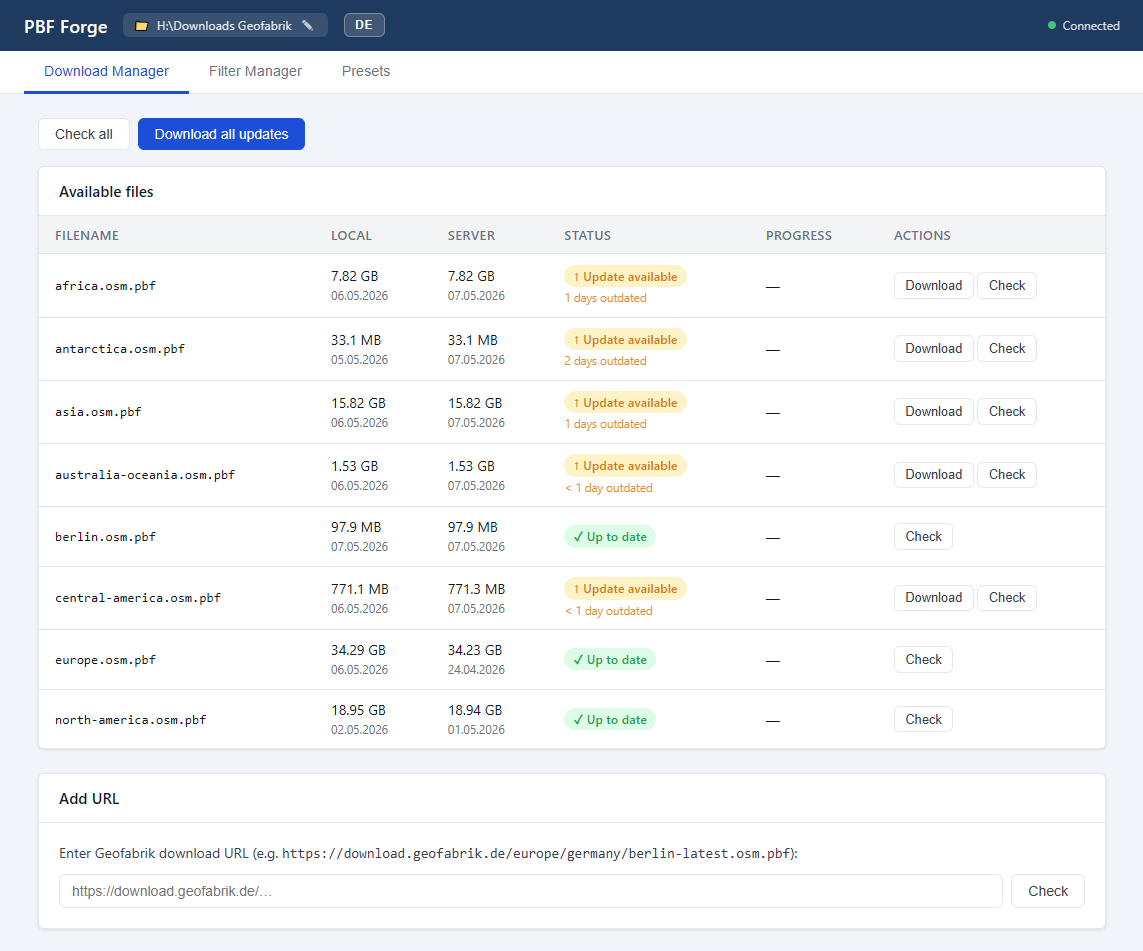
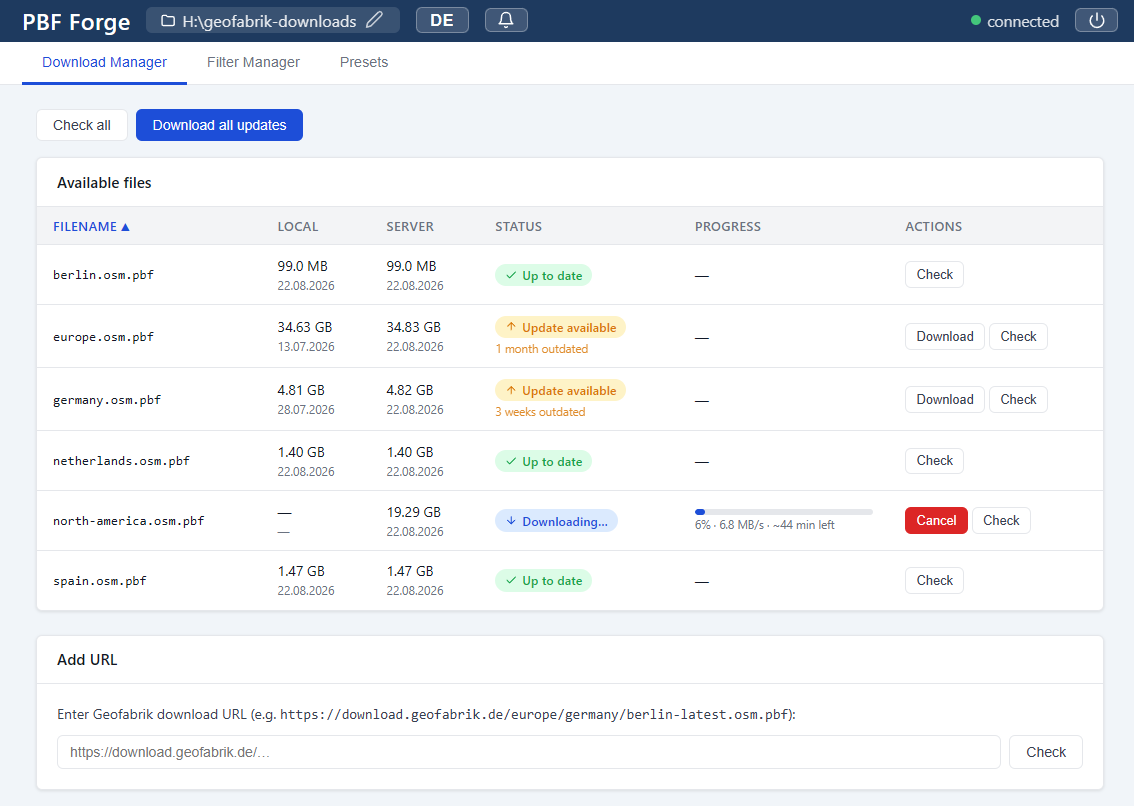
docs: stop presenting one download host as a requirement
Nothing in the tool is tied to a particular host. _validate_url rejects only
loopback and private addresses, the filename handling is string work, and the
single real constraint is a .md5 sidecar beside the file. The documentation and
the interface said otherwise in several places.

The URL field read "Enter Geofabrik download URL" above an input that accepts
any address, which tells the reader the others are not allowed. It now names
the format and keeps the host in the example, where it belongs. Both languages.

The README described eight built-in continental extracts as entries waiting in
the Downloads tab. There are none: the list is built from the data directory,
so on a fresh install it is empty, and the quickstart sent a new reader looking
for something that was never there. CONTINENTAL_URLS is a fallback that lets a
file copied in by hand still be checked, and config.py now says that.

limits.md gains the constraint that actually decides which hosts work, with the
sidecar requested from four of them rather than assumed: geofabrik.de,
planet.openstreetmap.org and bbbike.org publish one, openstreetmap.fr does not.

Geofabrik stays where it is a fact: as the example in the recipes, as the paid
custom-extract service among the alternatives, and as the region tree the
roadmap plans to browse.

The screenshots are replaced with current ones, so the note admitting they were
outdated is gone. Two guards replace the one that checked the count of a claim
[…]

diff --git a/frontend/index.html b/frontend/index.html
@@ -635,7 +635,7 @@ footer .credits-sep { color: var(--border); }
     <div class="card-header" data-i18n="card_add_url">Add URL</div>
     <div class="card-body">
       <p id="url-hint-p" style="font-size:.875rem;color:#374151;margin-bottom:.75rem">
-        Enter Geofabrik download URL (e.g. <code>https://download.geofabrik.de/europe/germany/berlin-latest.osm.pbf</code>):
+        Enter a PBF download URL (e.g. <code>https://download.geofabrik.de/europe/germany/berlin-latest.osm.pbf</code>):
       </p>
       <div style="display:flex;gap:.5rem">
         <input type="url" id="url-input" placeholder="https://download.geofabrik.de/…" style="flex:1">
@@ -1006,7 +1006,7 @@ const TRANSLATIONS = {
     th_actions: 'Aktionen',
     card_files: 'Vorhandene Dateien',
     card_add_url: 'URL hinzufügen',
-    url_hint: 'Geofabrik-Download-URL eingeben (z.&nbsp;B. <code>https://download.geofabrik.de/europe/germany/berlin-latest.osm.pbf</code>):',
+    url_hint: 'PBF-Download-URL eingeben (z.&nbsp;B. <code>https://download.geofabrik.de/europe/germany/berlin-latest.osm.pbf</code>):',
     url_check: 'Prüfen',
     url_filename: 'Dateiname',
     url_size: 'Größe (Server)',
@@ -1191,7 +1191,7 @@ const TRANSLATIONS = {
     th_actions: 'Actions',
     card_files: 'Available files',
     card_add_url: 'Add URL',
-    url_hint: 'Enter Geofabrik download URL (e.g. <code>https://download.geofabrik.de/europe/germany/berlin-latest.osm.pbf</code>):',
+    url_hint: 'Enter a PBF download URL (e.g. <code>https://download.geofabrik.de/europe/germany/berlin-latest.osm.pbf</code>):',
     url_check: 'Check',
     url_filename: 'Filename',
     url_size: 'Size (server)',

diff --git a/backend/tests/test_docs_claims.py b/backend/tests/test_docs_claims.py
@@ -305,13 +305,36 @@ def test_no_region_browser_claim():
     )
 
 
-def test_built_in_extract_count_matches_config():
-    config = _read(REPO / "backend" / "config.py")
-    urls = set(re.findall(r'"(https://[^"]+-latest\.osm\.pbf)"', config))
-    readme = _read(REPO / "README.md")
-    if "continental extracts" in readme:
-        assert "eight" in readme, "README states a count of built-in extracts"
-        assert len(urls) == 8, f"config.py now holds {len(urls)} built-in extracts, not 8"
+def test_no_claim_that_extracts_are_offered_out_of_the_box():
+    """CONTINENTAL_URLS is a fallback for filenames, not a catalogue.
+
+    It has no endpoint and no control. The download list is built from the data
+    directory, so on a fresh install it is empty. Documentation that promises
+    ready-made entries sends a new reader looking for something that is not
+    there.
+    """
+    banned = ("continental extract", "built-in extract")
+    offenders = [
+        f"{p.name}: {phrase}"
+        for p in _existing(CLAIM_DOCS)
+        for phrase in banned
+        if phrase in _read(p).lower()
+    ]
+    assert not offenders, "the built-in URLs never reach the interface: " + ", ".join(offenders)
+
+
+def test_the_download_url_field_names_no_host():
+    """Any host works, so the label must not read as a restriction.
+
+    _validate_url rejects only loopback and private addresses. Naming one host
+    in the field label tells the reader the others are not allowed.
+    """
+    frontend = _read(FRONTEND)
+    hints = re.findall(r"url_hint: '([^']*)'", frontend)
+    assert hints, "url_hint is no longer a plain string in the translation tables"
+    for hint in hints:
+        label = hint.split("(")[0]  # the example after "(e.g. ...)" may name one
+        assert "geofabrik" not in label.lower(), f"the URL field label names a host: {label!r}"
 
 
 # --------------------------------------------------------------------------

diff --git a/backend/download_manager.py b/backend/download_manager.py
@@ -1,8 +1,9 @@
-"""Downloading and freshness tracking for Geofabrik PBF extracts.
+"""Downloading and freshness tracking for PBF extracts.
 
-Transfers run in worker threads, resume from a .part file, and are checksummed
-against Geofabrik's .md5 before they count as complete. Per-file state is pushed
-to connected clients as it changes.
+The host is whichever one the URL names; nothing here is tied to a particular
+one. Transfers run in worker threads, resume from a .part file, and are
+checksummed against the .md5 the host publishes beside the file before they
+count as complete. Per-file state is pushed to connected clients as it changes.
 """
 
 from __future__ import annotations
@@ -181,7 +182,7 @@ def source_url(filename: str) -> Optional[str]:
 
 
 def url_to_filename(url: str) -> str:
-    """Convert a Geofabrik URL to local filename without '-latest'.
+    """Convert a download URL to a local filename without '-latest'.
 
     https://download.geofabrik.de/europe-latest.osm.pbf → europe.osm.pbf
     https://download.geofabrik.de/europe/germany/berlin-latest.osm.pbf → berlin.osm.pbf
@@ -401,7 +402,7 @@ class DownloadManager:
             return [s.to_dict() for s in self._files.values()]
 
     def check_file(self, filename: str) -> None:
-        """HEAD-request one file against Geofabrik. Runs in a thread."""
+        """HEAD-request one file against its own host. Runs in a thread."""
         # Read the disk first, so a single check reports what is actually there
         # rather than whatever this process last remembered.
         if not self._sync_local_state(filename):

diff --git a/backend/config.py b/backend/config.py
@@ -45,12 +45,17 @@ MAX_DOWNLOAD_SIZE = int(os.getenv("MAX_DOWNLOAD_SIZE", str(100 * 1024 * 1024 * 1
 # Buffer required free on disk after a download.
 MIN_FREE_DISK_BUFFER = 500 * 1024 * 1024  # 500 MB
 
-# Sent on all outbound HTTP requests so Geofabrik can identify traffic source.
+# Sent on all outbound HTTP requests, so whichever host is being asked can tell
+# the traffic apart and has somewhere to complain.
 USER_AGENT = f"pbf-forge/{VERSION} (+https://github.com/MartinHoblisch/pbf-forge)"
 
-# Continental extracts offered out of the box. Each continent is keyed twice:
-# under Geofabrik's own "-latest" filename and under the shortened name this
-# tool writes to disk, so a lookup succeeds whichever spelling it starts from.
+# Fallback URLs for eight filenames, never offered as a choice and never shown.
+# They let a file that turns up without a recorded URL still be checked for
+# updates, which happens when one is copied into the data directory by hand.
+# Each name is keyed twice, under the "-latest" spelling the host serves and
+# under the shortened one this tool writes to disk, so a lookup succeeds
+# whichever it starts from. A URL the user set for the same name wins and is
+# stored; see DownloadManager._save_url_mapping.
 CONTINENTAL_URLS: dict[str, str] = {
     "africa.osm.pbf": "https://download.geofabrik.de/africa-latest.osm.pbf",
     "africa-latest.osm.pbf": "https://download.geofabrik.de/africa-latest.osm.pbf",

diff --git a/backend/filter_manager.py b/backend/filter_manager.py
@@ -1006,8 +1006,8 @@ class FilterManager:
         consumer needs and is unrelated to when the file was fetched.
 
         Falls back to the file's mtime, which is not the download time either —
-        DownloadManager stamps the server's Last-Modified onto the file, so for
-        a Geofabrik extract this is its publication time.
+        DownloadManager stamps the server's Last-Modified onto the file, so on
+        a host that sets it truthfully this is the extract's publication time.
         """
         path = DATA_DIR / source
         try:

diff --git a/README.md b/README.md
@@ -69,7 +69,7 @@ One thing catches everybody once. **Type tag expressions without a `n/`, `w/` or
 
 So, all footpaths in Liechtenstein:
 
-1. Downloads tab. The eight continental extracts are listed; anything smaller is added by pasting its URL, for example `https://download.geofabrik.de/europe/liechtenstein-latest.osm.pbf`. Download it.
+1. Downloads tab. Paste the URL of the extract you want, for example `https://download.geofabrik.de/europe/liechtenstein-latest.osm.pbf`. Download it.
 2. Filter tab. Source: the file from step 1.
 3. Include tags, one per line:
    ```
@@ -82,7 +82,7 @@ The result is one layer named after the output file, in EPSG:4326, next to a `.t
 
 ## What it does
 
-- **Downloads** the eight built-in continental extracts, or any PBF URL you paste, from Geofabrik or elsewhere. Resumable, with a two-tier retry.
+- **Downloads** any PBF URL you paste, whichever host it points at. Resumable, with a two-tier retry.
 - **Verifies** every download against the `.md5` published beside it. A mismatch fails closed, and so does a missing checksum file. A PBF you copy into the data directory yourself is usable but has nothing to verify against.
 - **Filters** by tag with `osmium tags-filter`, over the geometry types you check. A second tag set removes matches in an inverted pass.
 - **Exports** GeoPackage, GeoJSON or the filtered PBF, with ODbL attribution and the full filter provenance embedded in the first two.
@@ -147,10 +147,10 @@ PBF Forge is MIT licensed. See [LICENSE](LICENSE).
 
 The data is not. OpenStreetMap data is licensed under the [Open Database License 1.0](https://www.openstreetmap.org/copyright), which requires attribution and share-alike on derived databases. Every GeoPackage and GeoJSON written here carries `© OpenStreetMap contributors (ODbL 1.0).` in its metadata; keep it there in anything you pass on.
 
-The terms of the host you download from apply on top, and they differ. The built-in extracts come from Geofabrik, whose downloads are free for non-commercial use; commercial users should read <https://www.geofabrik.de/geofabrik/agb.html>. Point PBF Forge somewhere else and that host's terms apply instead.
+The terms of the host you download from apply on top, and they differ. The examples in this documentation point at Geofabrik, whose downloads are free for non-commercial use; commercial users should read <https://www.geofabrik.de/geofabrik/agb.html>. Point PBF Forge somewhere else and that host's terms apply instead.
 
 ## Acknowledgements
 
 [osmium-tool](https://osmcode.org/osmium-tool/) does the filtering and [GDAL/OGR](https://gdal.org/) does the format conversion. This project is a form in front of them.
 
-The map data comes from [OpenStreetMap contributors](https://www.openstreetmap.org/copyright), and the extracts from [Geofabrik](https://www.geofabrik.de/), who publish them and their checksums for free.
+The map data comes from [OpenStreetMap contributors](https://www.openstreetmap.org/copyright). The extracts come from whichever host you point at; the examples here use [Geofabrik](https://www.geofabrik.de/), who publish extracts and their checksums for free.

diff --git a/docs/limits.md b/docs/limits.md
@@ -73,6 +73,27 @@ and is the default for a reason.
 An expression beginning with `-` would reach osmium as a command-line flag, so
 it is rejected. Use the exclude field, which runs a second pass.
 
+## The host has to publish a checksum
+
+Any PBF URL works. There is no allowlist, and nothing in the tool prefers one
+host: the only rejected addresses are loopback and private ranges, which would
+turn the download endpoint into a way to reach services on your machine.
+
+The one requirement is a `.md5` sidecar next to the file, at the download URL
+with `.md5` appended. Verification fails closed, so a host that does not
+publish one makes every download from it fail. Checked by requesting the
+sidecar, not by assumption:
+
+| Host | `<url>.md5` |
+|---|---|
+| `download.geofabrik.de` | yes |
+| `planet.openstreetmap.org` | yes |
+| `download.bbbike.org` | yes |
+| `download.openstreetmap.fr` | no, downloads from it fail |
+
+A PBF you copy into the data directory yourself needs no checksum. It has
+nothing to verify against and is used as it is.
+
 ## Extracts are snapshots
 
 The data is as current as the extract, which is hours to days old depending on

diff --git a/docs/recipes.md b/docs/recipes.md
@@ -4,10 +4,12 @@ Each of these is the whole form. Read [filtering.md](filtering.md) first if the
 expression syntax is new to you: expressions carry no `n/`, `w/` or `r/`
 prefix, because the tool adds it from the geometry checkboxes.
 
-Sources smaller than a continent are added by pasting their Geofabrik URL into
-the Downloads tab. The URL pattern is
-`https://download.geofabrik.de/<continent>/<country>-latest.osm.pbf`, and one
-level deeper for sub-regions.
+Sources are added by pasting a PBF URL into the Downloads tab. Any host works
+that publishes a `.md5` beside the file, which is what
+[limits.md](limits.md#the-host-has-to-publish-a-checksum) is about. The
+examples below use Geofabrik, whose paths run
+`https://download.geofabrik.de/<continent>/<country>-latest.osm.pbf`, one level
+deeper for sub-regions.
 
 ## Footpaths for a small country
 

diff --git a/docs/tour.md b/docs/tour.md
@@ -18,9 +18,8 @@ a recurring job is one click rather than retyped expressions.
 
 <img src="assets/screenshots/downloadmanager.PNG" alt="Download list with per-file progress, local and server size and status" width="100%">
 
-The eight built-in continental extracts plus every URL you have added, with
-local size, published size and status per row. Transfers resume, and a check
-runs against every listed host at startup.
-
-These screenshots are from an earlier version and do not show the Quit button
-or the current header.
+Every PBF in your data directory gets a row, plus any transfer that is running,
+with local size, published size and status. Add one by pasting its URL; see
+[limits.md](limits.md#the-host-has-to-publish-a-checksum) for what a host has
+to provide. Transfers resume, and a check runs against every listed host at
+startup.
